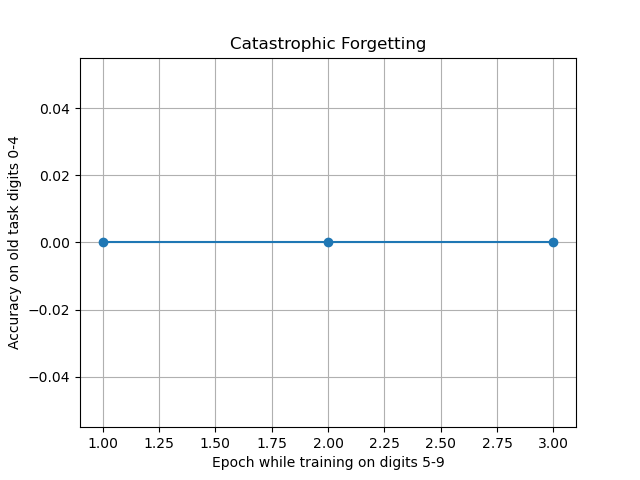
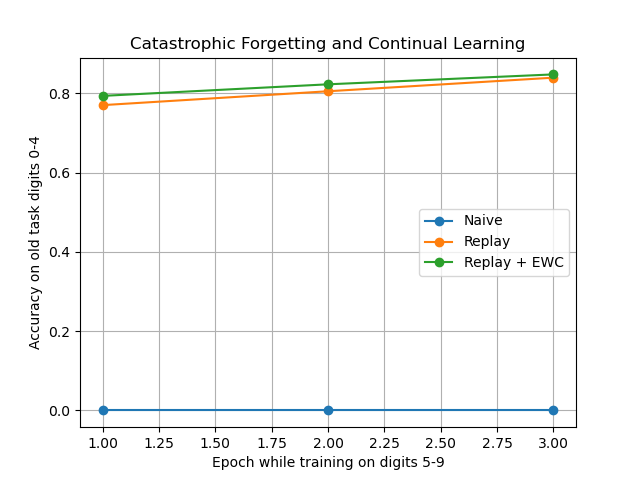
final mm7

diff --git a/experiments/post_deployment/continual.py b/experiments/post_deployment/continual.py
@@ -67,6 +67,45 @@ def train_with_tracking(model, loader, optimizer, old_loader, epochs=2):
     return old_accuracy_history
 
 
+def train_ewc_with_tracking(
+    model,
+    loader,
+    optimizer,
+    old_loader,
+    fisher,
+    old_parameters,
+    ewc_lambda,
+    epochs=2,
+):
+    criterion = nn.CrossEntropyLoss()
+    old_accuracy_history = []
+    model.train()
+
+    for epoch in range(epochs):
+        for images, labels in loader:
+            images = images.to(device)
+            labels = labels.to(device)
+
+            optimizer.zero_grad()
+            task_loss = criterion(model(images), labels)
+            loss = task_loss + ewc_lambda * ewc_penalty(
+                model,
+                fisher,
+                old_parameters,
+            )
+            loss.backward()
+            optimizer.step()
+
+        old_accuracy = evaluate(model, old_loader)
+        old_accuracy_history.append(old_accuracy)
+        print(
+            f"Epoch {epoch + 1} with replay + EWC: "
+            f"accuracy on 0-4 = {old_accuracy:.4f}"
+        )
+
+    return old_accuracy_history
+
+
 def evaluate(model, loader):
     model.eval()
     correct = 0
@@ -89,13 +128,66 @@ def create_replay_loader(new_dataset, memory, batch_size=64):
     return DataLoader(combined_data, batch_size=batch_size, shuffle=True)
 
 
-def save_forgetting_plot(history):
+def estimate_fisher(model, loader, max_batches=20):
+    criterion = nn.CrossEntropyLoss()
+    fisher = {
+        name: torch.zeros_like(parameter)
+        for name, parameter in model.named_parameters()
+        if parameter.requires_grad
+    }
+
+    model.eval()
+    for batch_index, (images, labels) in enumerate(loader):
+        if batch_index >= max_batches:
+            break
+
+        images = images.to(device)
+        labels = labels.to(device)
+
+        model.zero_grad()
+        loss = criterion(model(images), labels)
+        loss.backward()
+
+        for name, parameter in model.named_parameters():
+            if parameter.grad is not None:
+                fisher[name] += parameter.grad.detach() ** 2
+
+    for name in fisher:
+        fisher[name] /= max_batches
+
+    return fisher
+
+
+def copy_parameters(model):
+    return {
+        name: parameter.detach().clone()
+        for name, parameter in model.named_parameters()
+        if parameter.requires_grad
+    }
+
+
+def ewc_penalty(model, fisher, old_parameters):
+    penalty = torch.tensor(0.0, device=device)
+
+    for name, parameter in model.named_parameters():
+        if name in fisher:
+            penalty += (
+                fisher[name] * (parameter - old_parameters[name]) ** 2
+            ).sum()
+
+    return penalty
+
+
+def save_forgetting_plot(histories):
     os.makedirs("artifacts", exist_ok=True)
 
-    plt.plot(range(1, len(history) + 1), history, marker="o")
+    for label, history in histories.items():
+        plt.plot(range(1, len(history) + 1), history, marker="o", label=label)
+
     plt.xlabel("Epoch while training on digits 5-9")
     plt.ylabel("Accuracy on old task digits 0-4")
-    plt.title("Catastrophic Forgetting")
+    plt.title("Catastrophic Forgetting and Continual Learning")
+    plt.legend()
     plt.grid()
     plt.savefig("artifacts/mm7_forgetting.png")
     plt.close()
@@ -144,8 +236,6 @@ def main():
     print(f"Accuracy on old digits 0-4: {acc_0_4_after_naive:.4f}")
     print(f"Accuracy on new digits 5-9: {acc_5_9_after_naive:.4f}")
 
-    save_forgetting_plot(forgetting_history)
-
     # -------------------------
     # Experience replay
     # -------------------------
@@ -153,18 +243,26 @@ def main():
     replay_optimizer = optim.Adam(replay_model.parameters(), lr=0.001)
 
     train(replay_model, loader_0_4, replay_optimizer, epochs=2)
+    acc_0_4_before_replay = evaluate(replay_model, loader_0_4)
 
     memory_size = 2000
     memory = random.sample(list(data_0_4), memory_size)
     replay_train_loader = create_replay_loader(data_5_9, memory)
 
-    train(replay_model, replay_train_loader, replay_optimizer, epochs=3)
+    replay_history = train_with_tracking(
+        replay_model,
+        replay_train_loader,
+        replay_optimizer,
+        loader_0_4,
+        epochs=3,
+    )
 
     acc_0_4_after_replay = evaluate(replay_model, loader_0_4)
     acc_5_9_after_replay = evaluate(replay_model, loader_5_9)
 
     print("\n--- Experience Replay ---")
     print(f"Replay memory size: {memory_size}")
+    print(f"Initial accuracy on digits 0-4: {acc_0_4_before_replay:.4f}")
     print(
         "Accuracy on old digits 0-4 after replay: "
         f"{acc_0_4_after_replay:.4f}"
@@ -172,6 +270,52 @@ def main():
     print(
         "Accuracy on new digits 5-9 after replay: "
         f"{acc_5_9_after_replay:.4f}"
+    )
+
+    # -------------------------
+    # Experience replay + EWC
+    # -------------------------
+    ewc_lambda = 10.0
+    ewc_model = Net().to(device)
+    ewc_optimizer = optim.Adam(ewc_model.parameters(), lr=0.001)
+
+    train(ewc_model, loader_0_4, ewc_optimizer, epochs=2)
+    acc_0_4_before_ewc = evaluate(ewc_model, loader_0_4)
+    old_parameters = copy_parameters(ewc_model)
+    fisher = estimate_fisher(ewc_model, loader_0_4, max_batches=20)
+
+    ewc_history = train_ewc_with_tracking(
+        ewc_model,
+        replay_train_loader,
+        ewc_optimizer,
+        loader_0_4,
+        fisher,
+        old_parameters,
+        ewc_lambda,
+        epochs=3,
+    )
+
+    acc_0_4_after_ewc = evaluate(ewc_model, loader_0_4)
+    acc_5_9_after_ewc = evaluate(ewc_model, loader_5_9)
+
+    print("\n--- Experience Replay + EWC ---")
+    print(f"EWC lambda: {ewc_lambda}")
+    print(f"Initial accuracy on digits 0-4: {acc_0_4_before_ewc:.4f}")
+    print(
+        "Accuracy on old digits 0-4 after replay + EWC: "
+        f"{acc_0_4_after_ewc:.4f}"
+    )
+    print(
+        "Accuracy on new digits 5-9 after replay + EWC: "
+        f"{acc_5_9_after_ewc:.4f}"
+    )
+
+    save_forgetting_plot(
+        {
+            "Naive": forgetting_history,
+            "Replay": replay_history,
+            "Replay + EWC": ewc_history,
+        }
     )
 
     print("\nSaved forgetting plot to artifacts/mm7_forgetting.png")
